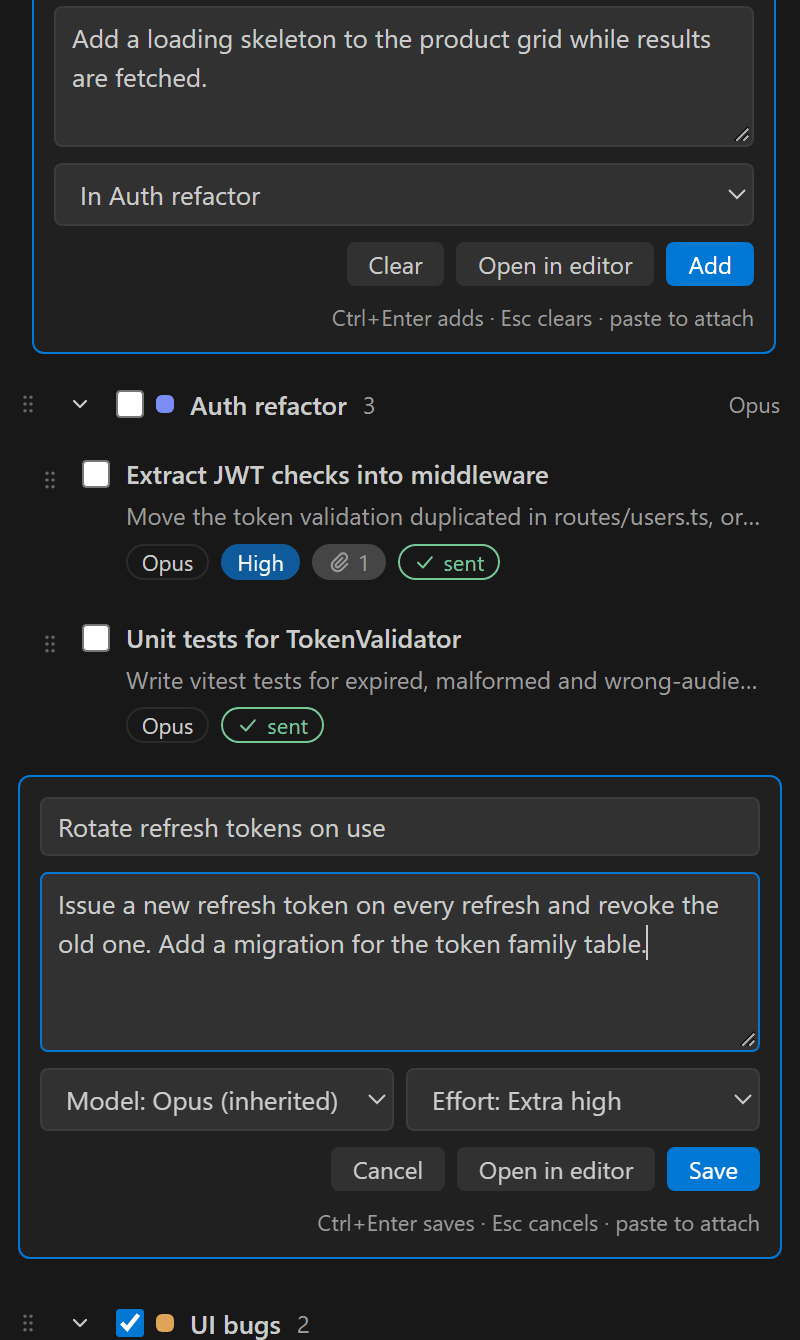
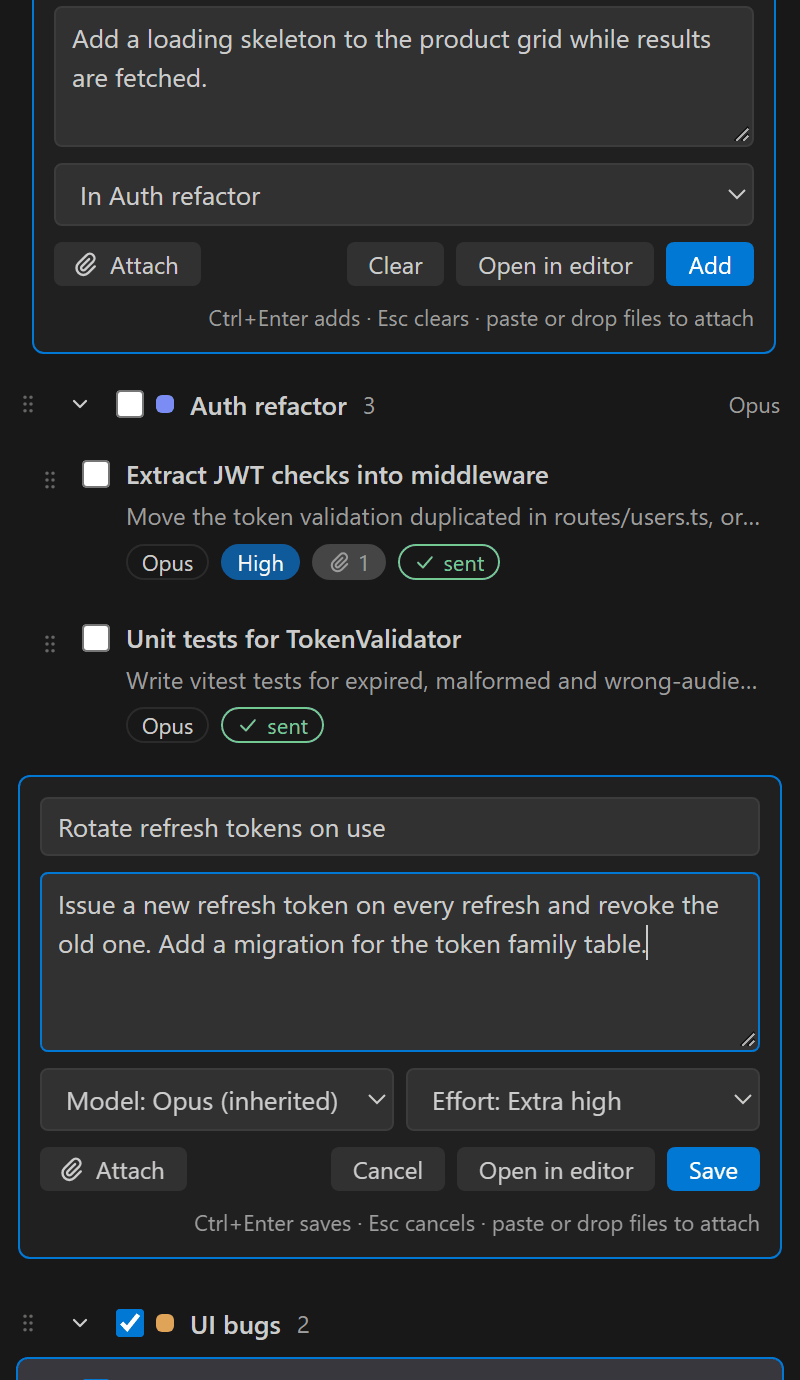
0.5.1: Attach button in quick add and inline edit
Both inline boxes get an Attach button and accept dropped files, beside
pasting. Quick add holds the files until the item is created; inline
edit uses the host's file dialog.

diff --git a/packages/vscode-extension/webview/InlineItem.tsx b/packages/vscode-extension/webview/InlineItem.tsx
@@ -36,6 +36,7 @@ export function QuickAdd({ snap, categoryId, onCategory }: { snap: Snapshot; cat
   const [files, setFiles] = useState<PendingFile[]>([]);
   const [busy, setBusy] = useState(false);
   const area = useRef<HTMLTextAreaElement>(null);
+  const picker = useRef<HTMLInputElement>(null);
   const cats = snap.state.categoryOrder.map(id => snap.state.categories[id]!).filter(Boolean);
   const cat = snap.state.categories[categoryId] ? categoryId : cats[0]?.id;
 
@@ -93,6 +94,12 @@ export function QuickAdd({ snap, categoryId, onCategory }: { snap: Snapshot; cat
   return (
     <div
       className="quick-add"
+      onDragOver={e => e.preventDefault()}
+      onDrop={e => {
+        if (!e.dataTransfer.files.length) return;
+        e.preventDefault();
+        void addFiles(Array.from(e.dataTransfer.files));
+      }}
       onKeyDown={e => {
         if (isSubmitKey(e)) {
           e.preventDefault();
@@ -135,7 +142,21 @@ export function QuickAdd({ snap, categoryId, onCategory }: { snap: Snapshot; cat
           </option>
         ))}
       </select>
+      <input
+        ref={picker}
+        type="file"
+        multiple
+        hidden
+        onChange={e => {
+          void addFiles(Array.from(e.target.files ?? []));
+          e.target.value = '';
+        }}
+      />
       <div className="inline-row inline-actions">
+        <button className="button secondary small attach" title="Attach files" onClick={() => picker.current?.click()}>
+          <Icon name="clip" size={13} /> Attach
+        </button>
+        <span className="spacer" />
         <button className="button secondary small" title="Close (Esc)" onClick={() => (empty ? setOpen(false) : reset())}>
           {empty ? 'Close' : 'Clear'}
         </button>
@@ -146,7 +167,7 @@ export function QuickAdd({ snap, categoryId, onCategory }: { snap: Snapshot; cat
           Add
         </button>
       </div>
-      <span className="hint">Ctrl+Enter adds · Esc clears · paste to attach</span>
+      <span className="hint">Ctrl+Enter adds · Esc clears · paste or drop files to attach</span>
     </div>
   );
 }
@@ -204,6 +225,15 @@ export function InlineEdit({ snap, item, onDone }: { snap: Snapshot; item: ChatI
   return (
     <div
       className="inline-edit"
+      onDragOver={e => e.preventDefault()}
+      onDrop={e => {
+        const list = Array.from(e.dataTransfer.files);
+        if (!list.length) return;
+        e.preventDefault();
+        void (async () => {
+          for (const f of list) send({ op: 'attachment.addBytes', itemId: item.id, name: f.name, mime: f.type, base64: await readAsBase64(f) });
+        })();
+      }}
       onClick={e => e.stopPropagation()}
       onDoubleClick={e => e.stopPropagation()}
       onKeyDown={e => {
@@ -257,6 +287,10 @@ export function InlineEdit({ snap, item, onDone }: { snap: Snapshot; item: ChatI
         </select>
       </div>
       <div className="inline-row inline-actions">
+        <button className="button secondary small attach" title="Attach files" onClick={() => send({ op: 'attachment.pick', itemId: item.id })}>
+          <Icon name="clip" size={13} /> Attach
+        </button>
+        <span className="spacer" />
         <button className="button secondary small" onClick={onDone}>
           Cancel
         </button>
@@ -267,7 +301,7 @@ export function InlineEdit({ snap, item, onDone }: { snap: Snapshot; item: ChatI
           Save
         </button>
       </div>
-      <span className="hint">Ctrl+Enter saves · Esc cancels · paste to attach</span>
+      <span className="hint">Ctrl+Enter saves · Esc cancels · paste or drop files to attach</span>
       <span className="sr-only">{`Editing ${displayTitle(item)}; current model ${eff.model.value}`}</span>
     </div>
   );

diff --git a/packages/vscode-extension/webview/styles.css b/packages/vscode-extension/webview/styles.css
@@ -881,6 +881,9 @@ input[type='radio'] {
 .inline-row.inline-actions {
   justify-content: flex-end;
 }
+.inline-row.inline-actions .attach {
+  padding-left: 8px;
+}
 .quick-add > .hint,
 .inline-edit > .hint {
   font-size: 11px;

diff --git a/README.md b/README.md
@@ -58,9 +58,9 @@ The Itemizer has two parts, and you install both:
 
 ### 1. Install the VS Code extension
 
-1. Download `claude-chat-itemizer-0.5.0.vsix` from the [latest release](https://github.com/ameralqarallih-lgtm/claude-chat-itemizer/releases/latest).
+1. Download `claude-chat-itemizer-0.5.1.vsix` from the [latest release](https://github.com/ameralqarallih-lgtm/claude-chat-itemizer/releases/latest).
 2. Install it, either:
-   - from the command line: `code --install-extension claude-chat-itemizer-0.5.0.vsix`
+   - from the command line: `code --install-extension claude-chat-itemizer-0.5.1.vsix`
    - or in VS Code: **Extensions** view → **⋯** menu → **Install from VSIX…** → pick the file.
 3. Reload VS Code if it asks. A **Chat Itemizer** icon appears in the activity bar.
 
@@ -100,9 +100,9 @@ Install the new VSIX the same way. When the bridge is already set up, the extens
 
 ### Write chat items
 
-- **Quick add, in the sidebar:** click **Add an item here…** at the top of the list. Type the prompt (a title is optional), choose the category, paste screenshots or files if you want, and press **Add** or **Ctrl+Enter**. The box stays open for the next one. **Open in editor** creates the item and opens the full editor.
+- **Quick add, in the sidebar:** click **Add an item here…** at the top of the list. Type the prompt (a title is optional), choose the category, add files with **Attach**, by pasting or by dropping them on the box, and press **Add** or **Ctrl+Enter**. The box stays open for the next one. **Open in editor** creates the item and opens the full editor.
 - **New item in the editor window:** the **＋** in the view's title bar, or the **＋** that appears when you hover over a category header. The editor opens next to your code, with every setting.
-- **Edit in place:** click ✎ on an item, or double-click it, to change its title, prompt, model, effort and attachments right in the list. **Ctrl+Enter** saves, **Esc** cancels. A single click opens the item in the editor window as before.
+- **Edit in place:** click ✎ on an item, or double-click it, to change its title, prompt, model, effort and attachments (**Attach**, paste or drop) right in the list. **Ctrl+Enter** saves, **Esc** cancels. A single click opens the item in the editor window as before.
 <img src="docs/images/inline-add-edit.png" alt="Quick add open at the top of the list with a prompt typed and the Auth refactor category chosen, and below it an item being edited in place with its title, prompt, model and effort, and Cancel, Open in editor and Save buttons" width="400">
 
 - **In the editor:** give the item a title (optional, shown in the list) and a prompt. Changes save as you type; **Ctrl+S** saves at once, and **Save and close** saves and closes the editor. A new item closed while still empty is discarded.

diff --git a/CHANGELOG.md b/CHANGELOG.md
@@ -1,5 +1,10 @@
 # Changelog
 
+## 0.5.1 (2026-10-30)
+
+### Added
+- **Attach** button in quick add and inline edit, plus dropping files onto either box. Pasting still works.
+
 ## 0.5.0 (2026-10-30)
 
 ### Added
